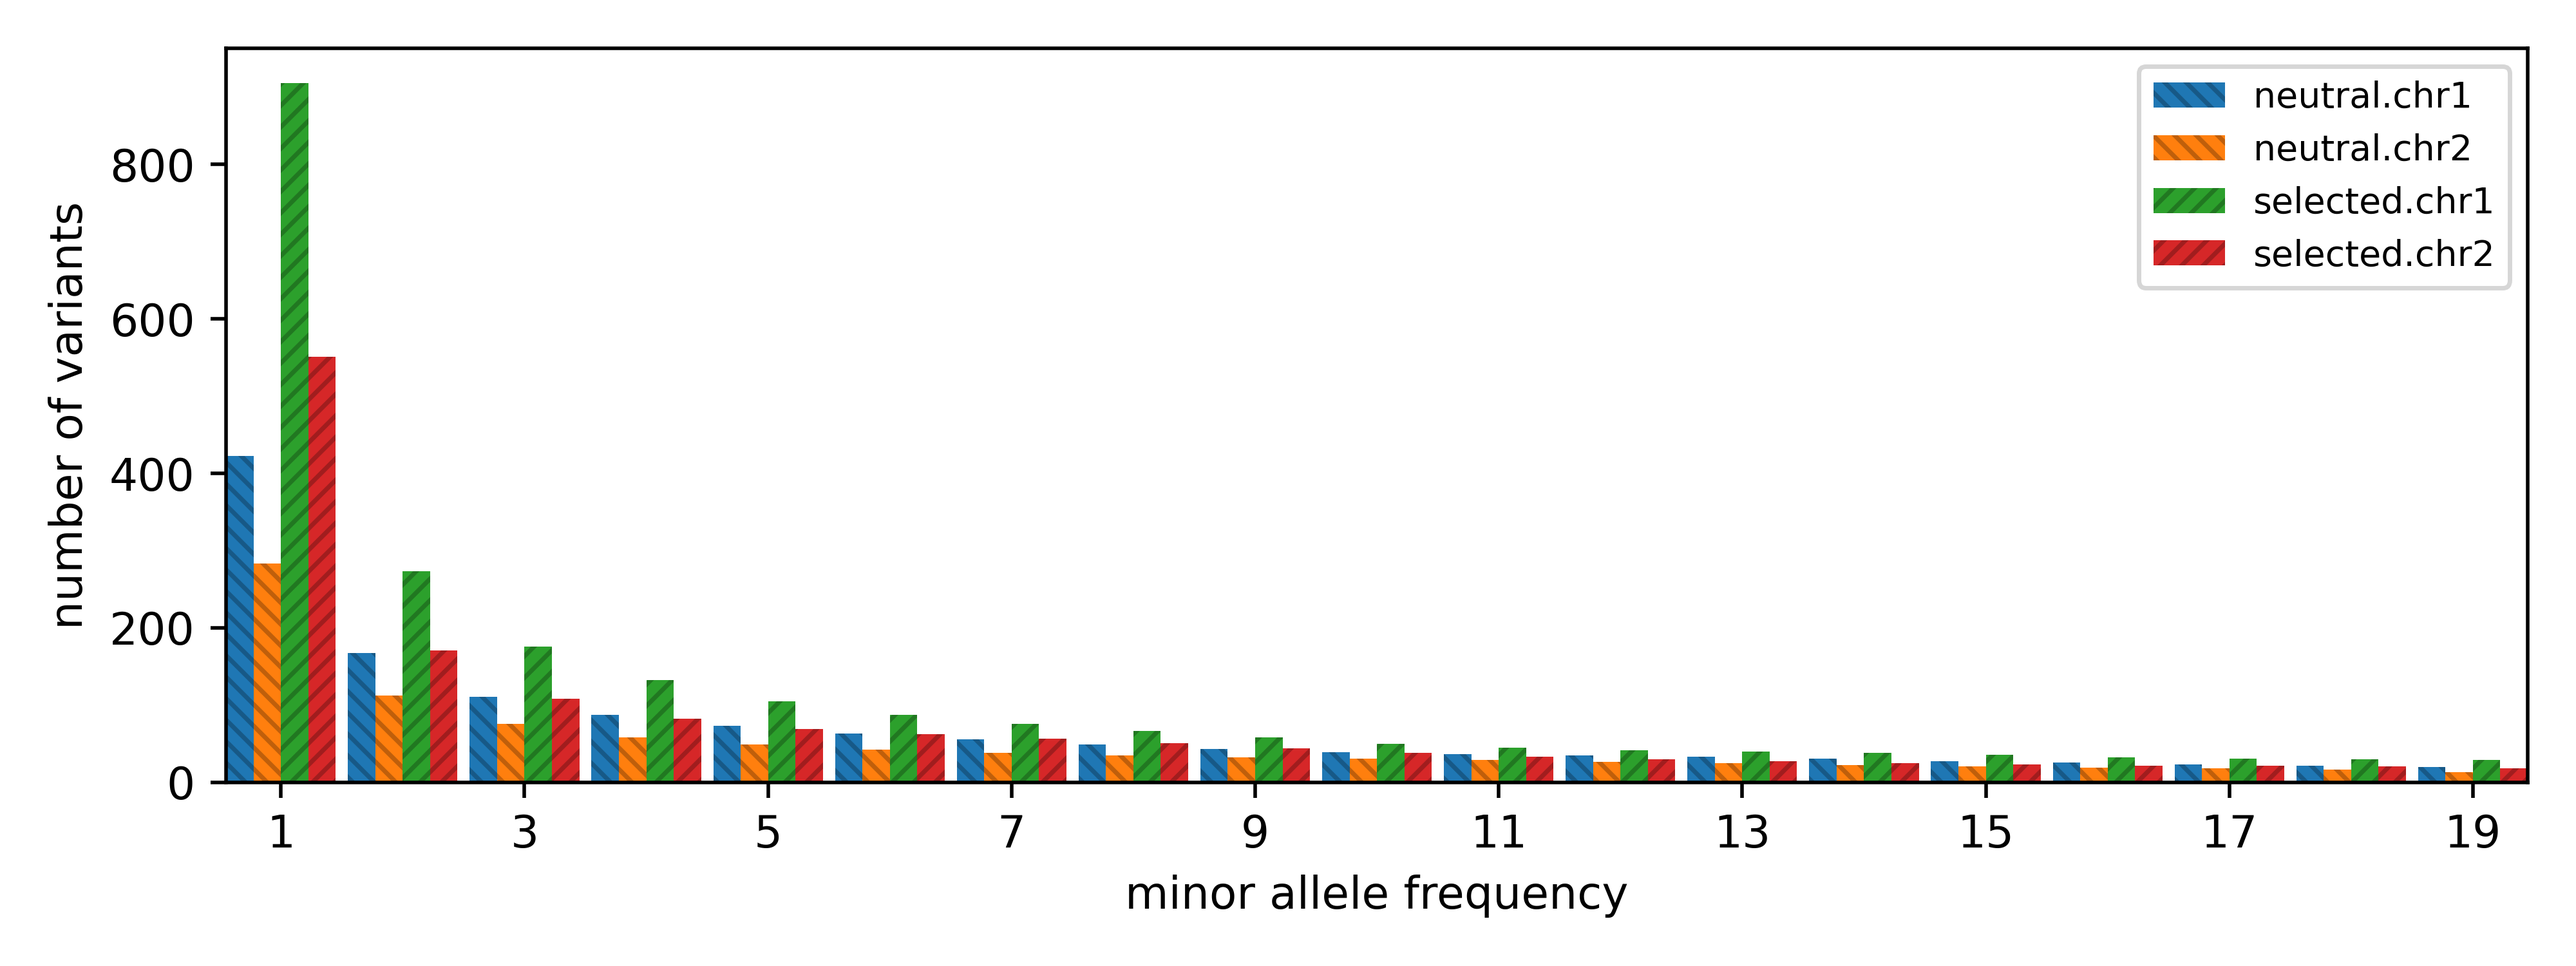
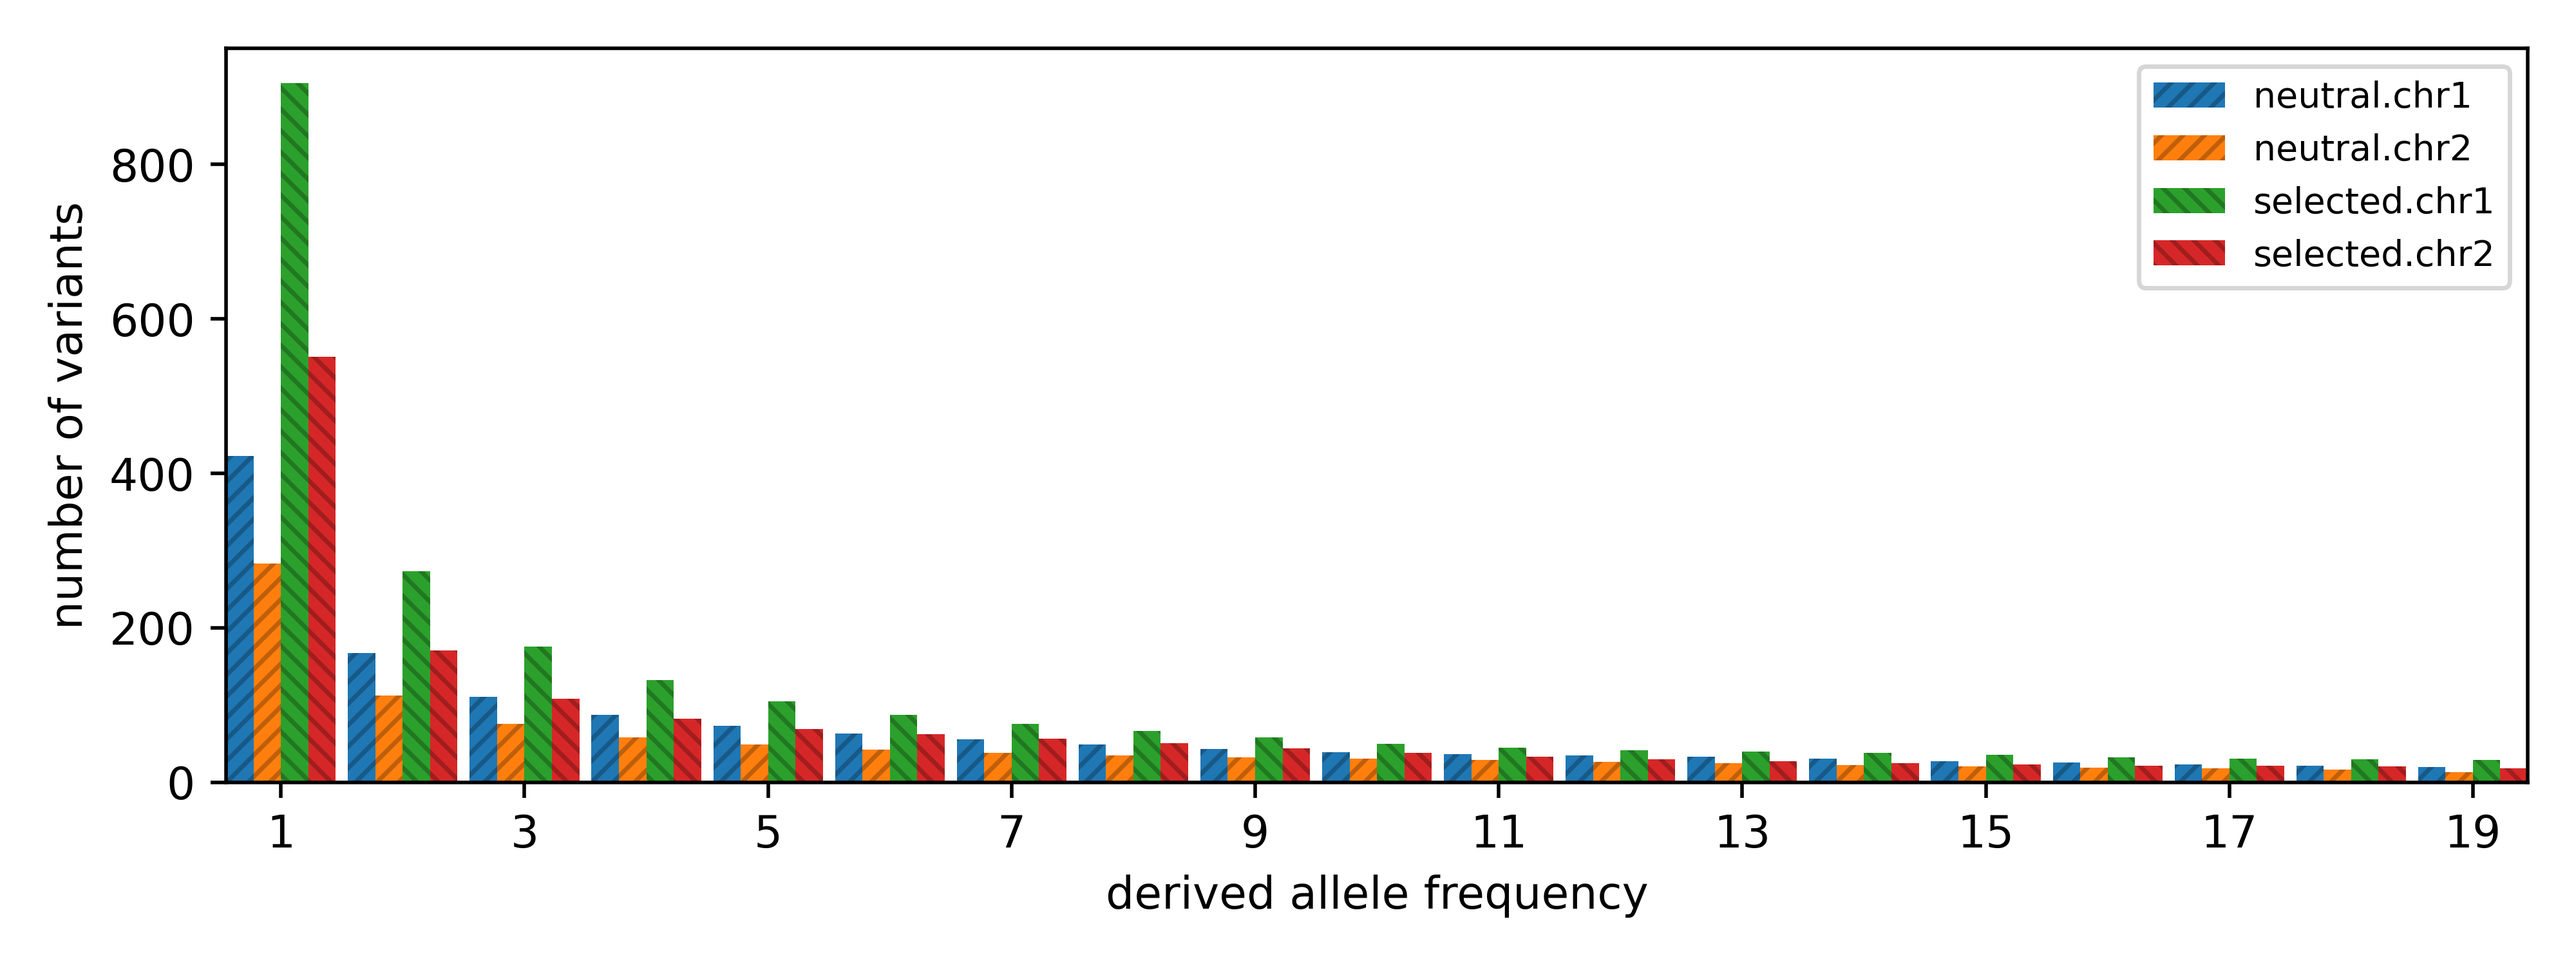
Update figures.

diff --git a/workflow/scripts/parse_sfs_chr.py b/workflow/scripts/parse_sfs_chr.py
@@ -46,6 +46,9 @@ sfs: fd.Spectra = p.parse()
 sfs.to_file('sfs.chr.csv')
 
 sfs.plot(show=False)
+plt.xlabel('derived allele frequency')
+plt.ylabel('number of variants')
+plt.tight_layout()
 plt.savefig("sfs.chr.png")
 
 pass
